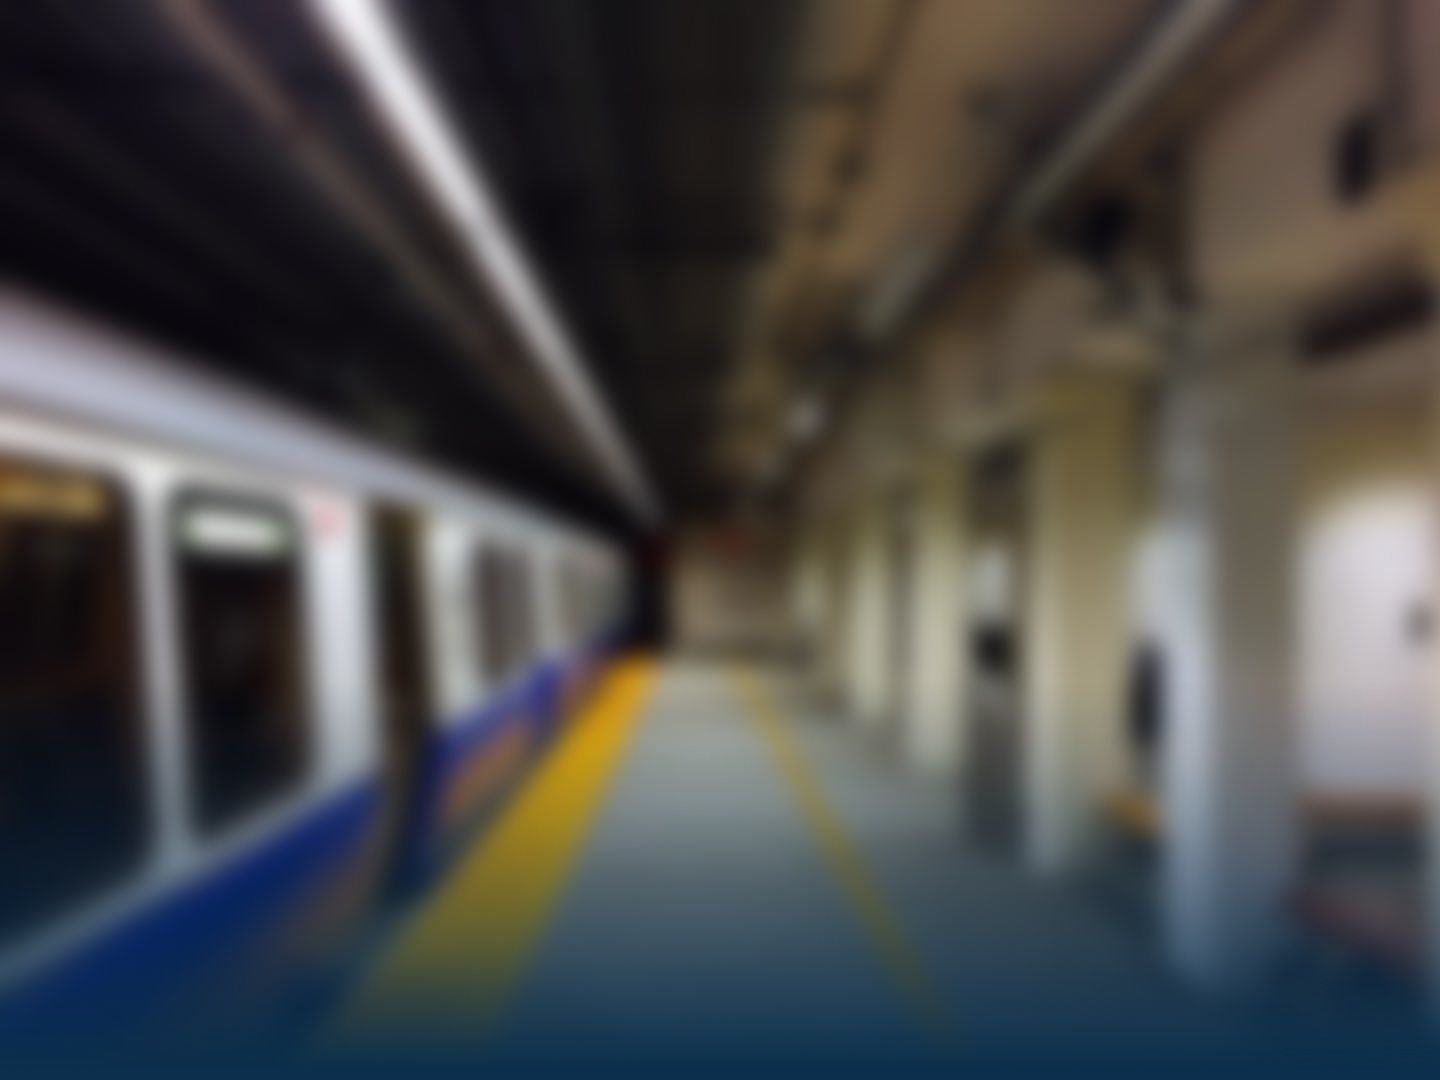
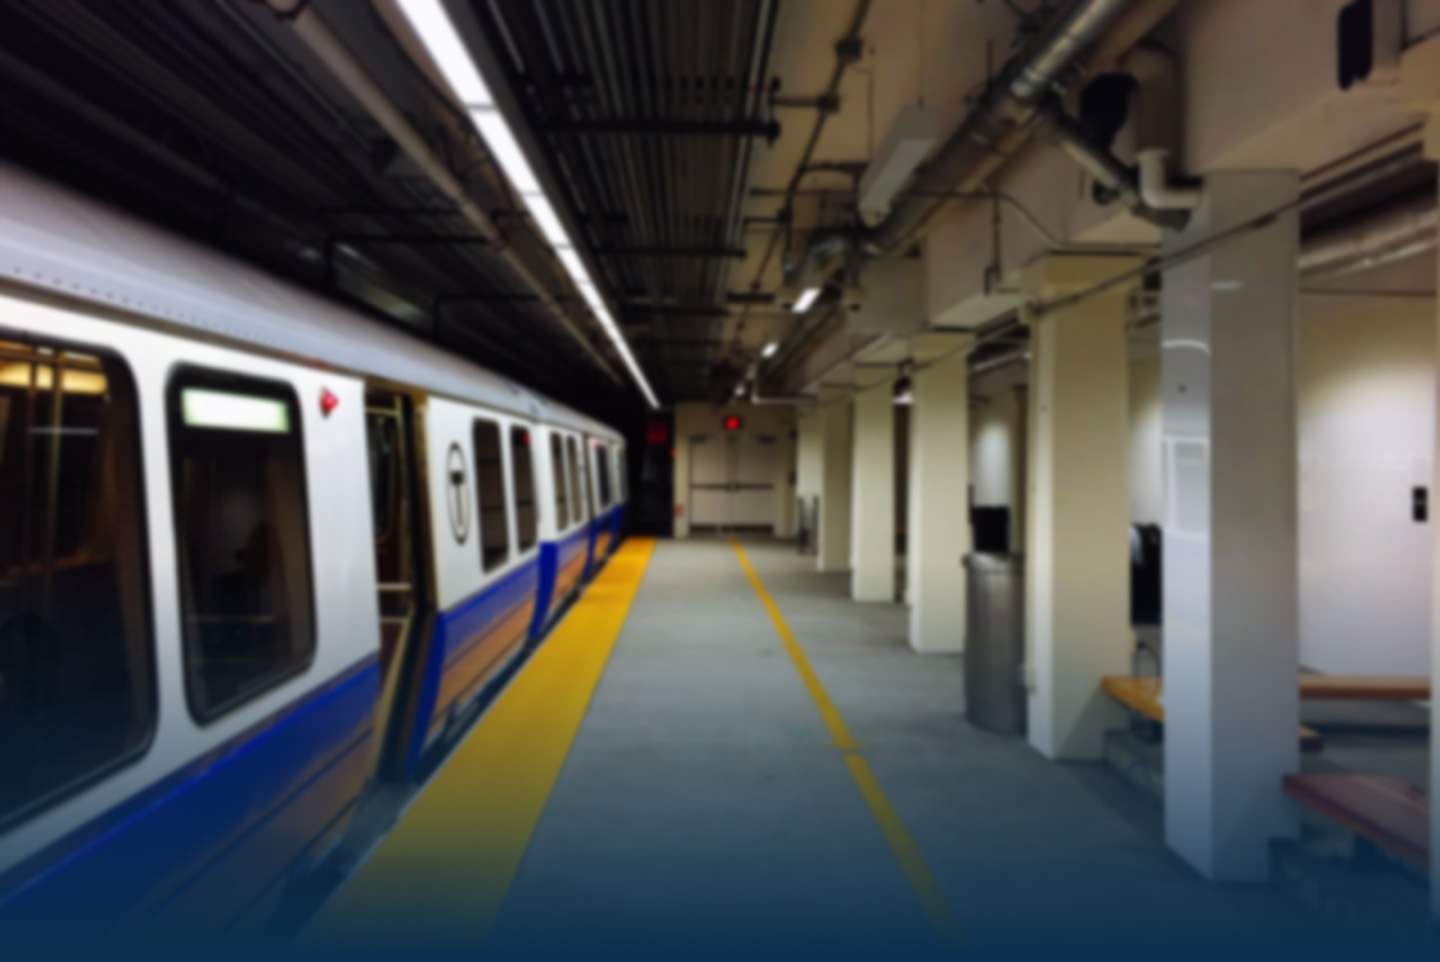
Update background images (#88)
* Updated background image
* Updated backstop references
* added backstop test for 404 page

diff --git a/apps/site/web/static/css/app.scss b/apps/site/web/static/css/app.scss
@@ -20,6 +20,9 @@ body {
 
 @include media-breakpoint-up(sm) {
   // we only need the BG image if the screen is big enough
+  body.not-found {
+    background-image: url(/images/mbta-train-bkg-404.jpg);
+  }
   body {
     background-image: url(/images/mbta-train-bkg.jpg);
     background-repeat: no-repeat;
